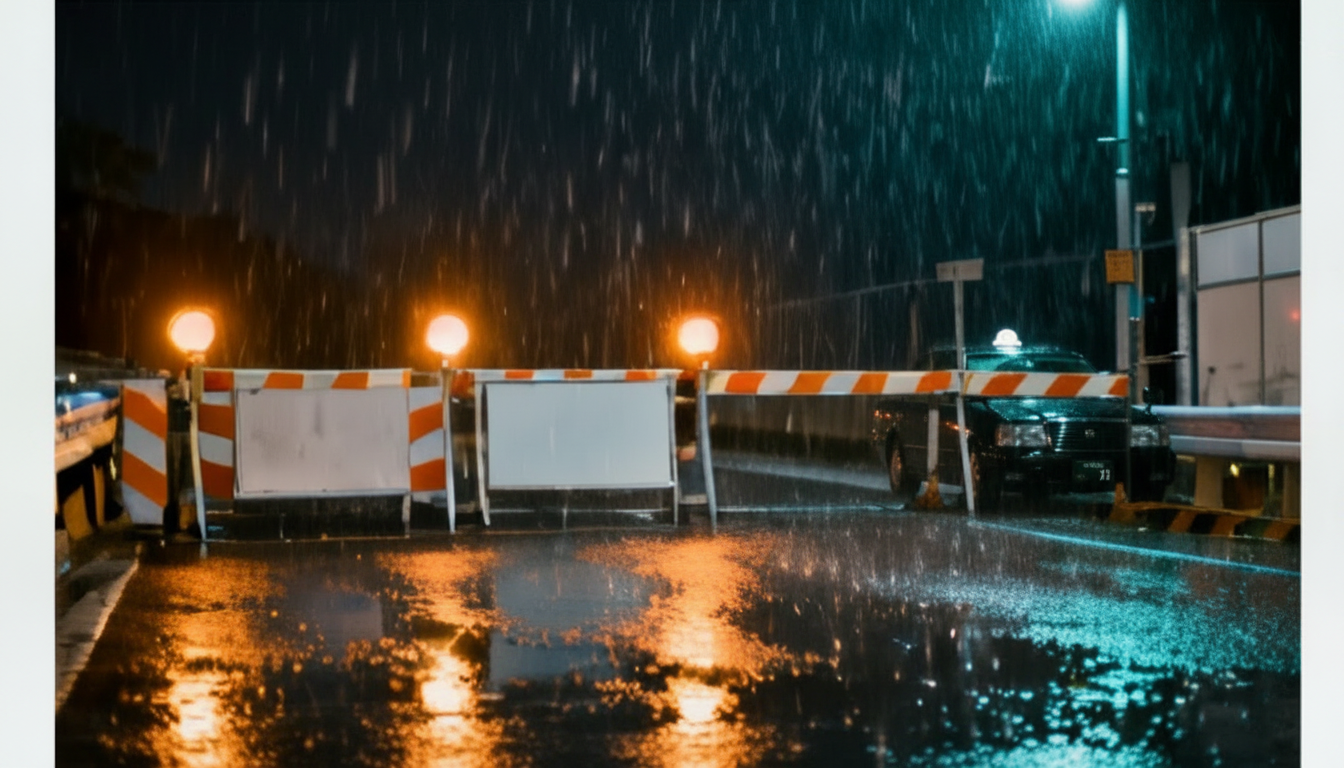
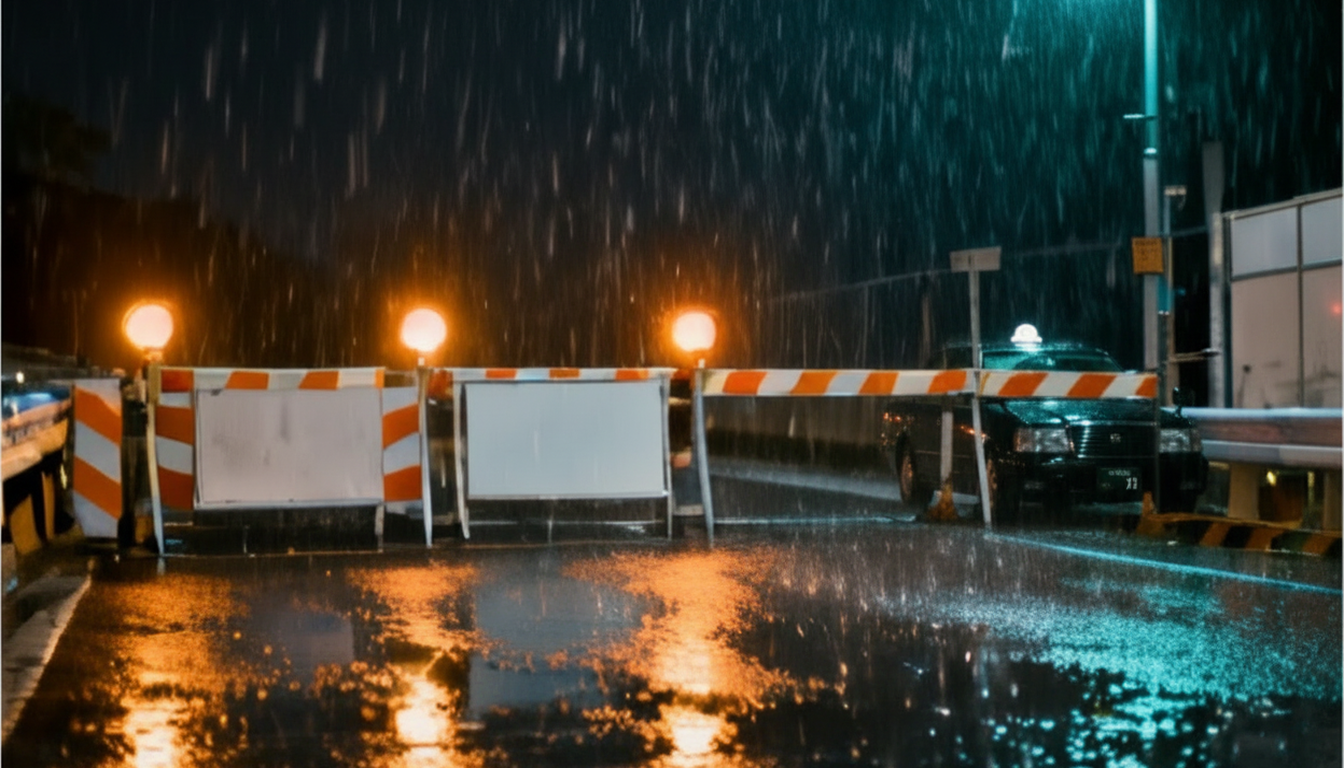
untenshu: S06a white bars cropped, glyph-removal edit spec d
Claude-Session: https://claude.ai/code/session_01P5TkBLDpA7gf9KcUyXo4TR

diff --git a/scripts/kf_letterbox_fix.py b/scripts/kf_letterbox_fix.py
@@ -8,7 +8,7 @@ from PIL import Image
 
 def bands(a, axis):
     m = a.mean(axis=(axis, 2)); s = a.std(axis=(axis, 2))
-    flat = ((m < 14) | (m > 242)) & (s < 6)
+    flat = ((m < 14) | (m > 226)) & (s < 6)  # 흰 띠가 235 정도로 나오는 경우(untenshu S06a)
     n = len(flat); lo = 0
     while lo < n // 3 and flat[lo]:
         lo += 1
